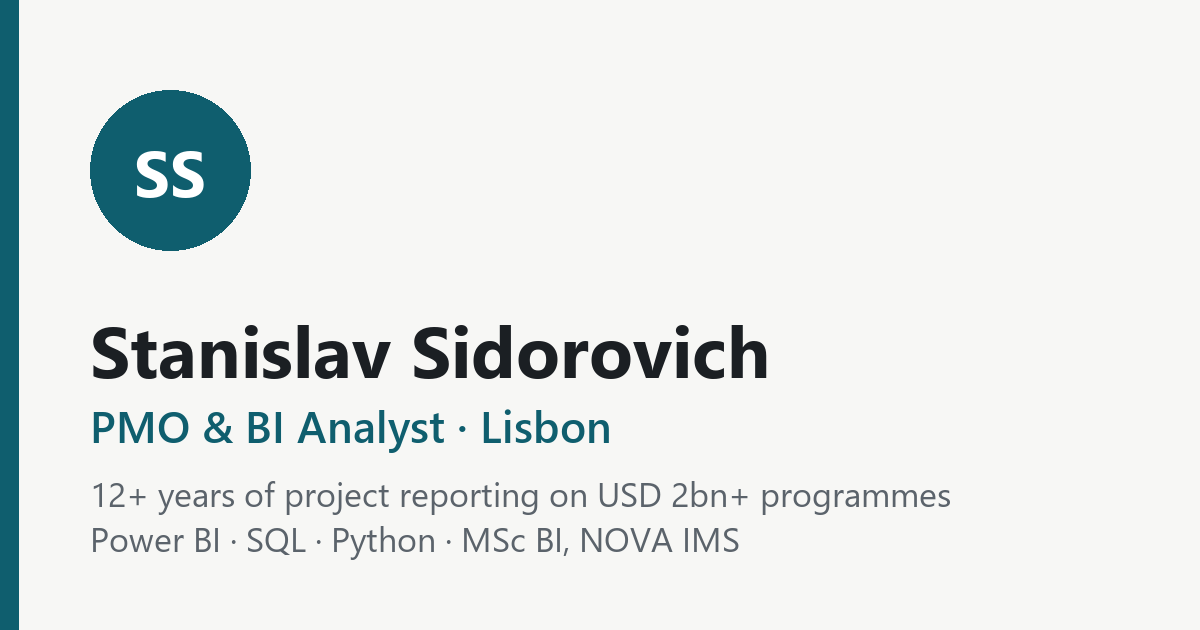
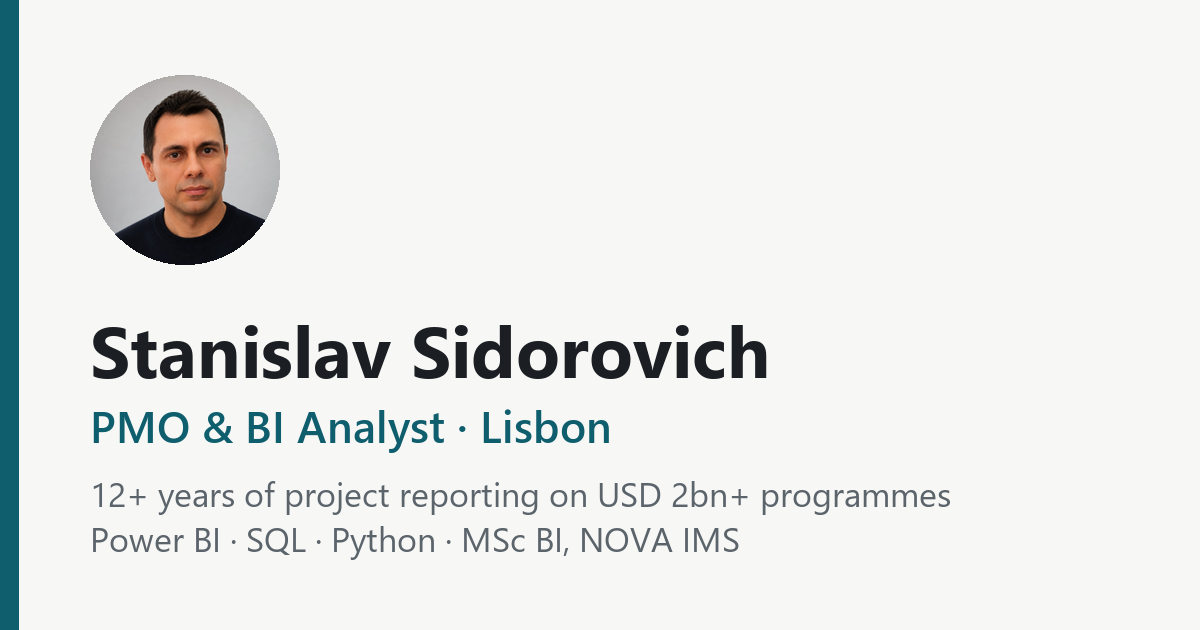
Add photo, Google Play link, clearer Quaera description

Changed region(s): [[0.0617, 0.1206, 0.2467, 0.4222]]

diff --git a/index.html b/index.html
@@ -122,8 +122,7 @@ footer{color:var(--muted);font-size:.85rem;text-align:center;padding:20px 0 40px
 <main class="wrap">
 
   <header class="hero">
-    <!-- To use a photo: replace this div with <img class="avatar" src="assets/photo.jpg" alt="Stanislav Sidorovich"> -->
-    <div class="avatar" aria-hidden="true">SS</div>
+    <img class="avatar" src="assets/photo.jpg" alt="Stanislav Sidorovich" width="400" height="400">
     <div>
       <h1>Stanislav Sidorovich</h1>
       <p class="role">PMO &amp; BI Analyst</p>
@@ -183,8 +182,9 @@ footer{color:var(--muted);font-size:.85rem;text-align:center;padding:20px 0 40px
         <h3>Quaera: a data analyst trainer</h3>
         <p>A browser-based trainer for SQL, pandas and DAX. I designed a 12-table synthetic FMCG dataset around it, so every query runs and every answer is checked against real data.</p>
         <ul>
-          <li>4 tracks, 340+ exercises, story mode with business cases</li>
-          <li>Runs offline in the browser, no sign-up</li>
+          <li>4 tracks: analytics as a profession, SQL, pandas, data model &amp; BI</li>
+          <li>Story mode: business cases as an analytics intern, then an analyst, then in pandas</li>
+          <li>Free sandbox on the full dataset; runs offline in the browser, no sign-up</li>
           <li>Built end-to-end with AI-assisted coding</li>
         </ul>
         <ul class="chips"><li>SQL</li><li>pandas</li><li>DAX</li><li>Data modelling</li></ul>
@@ -214,7 +214,7 @@ footer{color:var(--muted);font-size:.85rem;text-align:center;padding:20px 0 40px
       </div>
     </article>
 
-    <p class="also">Also built: <b>Arctic Math Rescue</b>, a children's math game (EN/RU) published on Google Play.</p>
+    <p class="also">Also built: <b>Arctic Math Rescue</b>, a children's math game (EN/RU) published on <a href="https://play.google.com/store/apps/details?id=com.arcticmathrescue.game" target="_blank" rel="noopener">Google Play</a>.</p>
   </section>
 
   <section id="experience">
